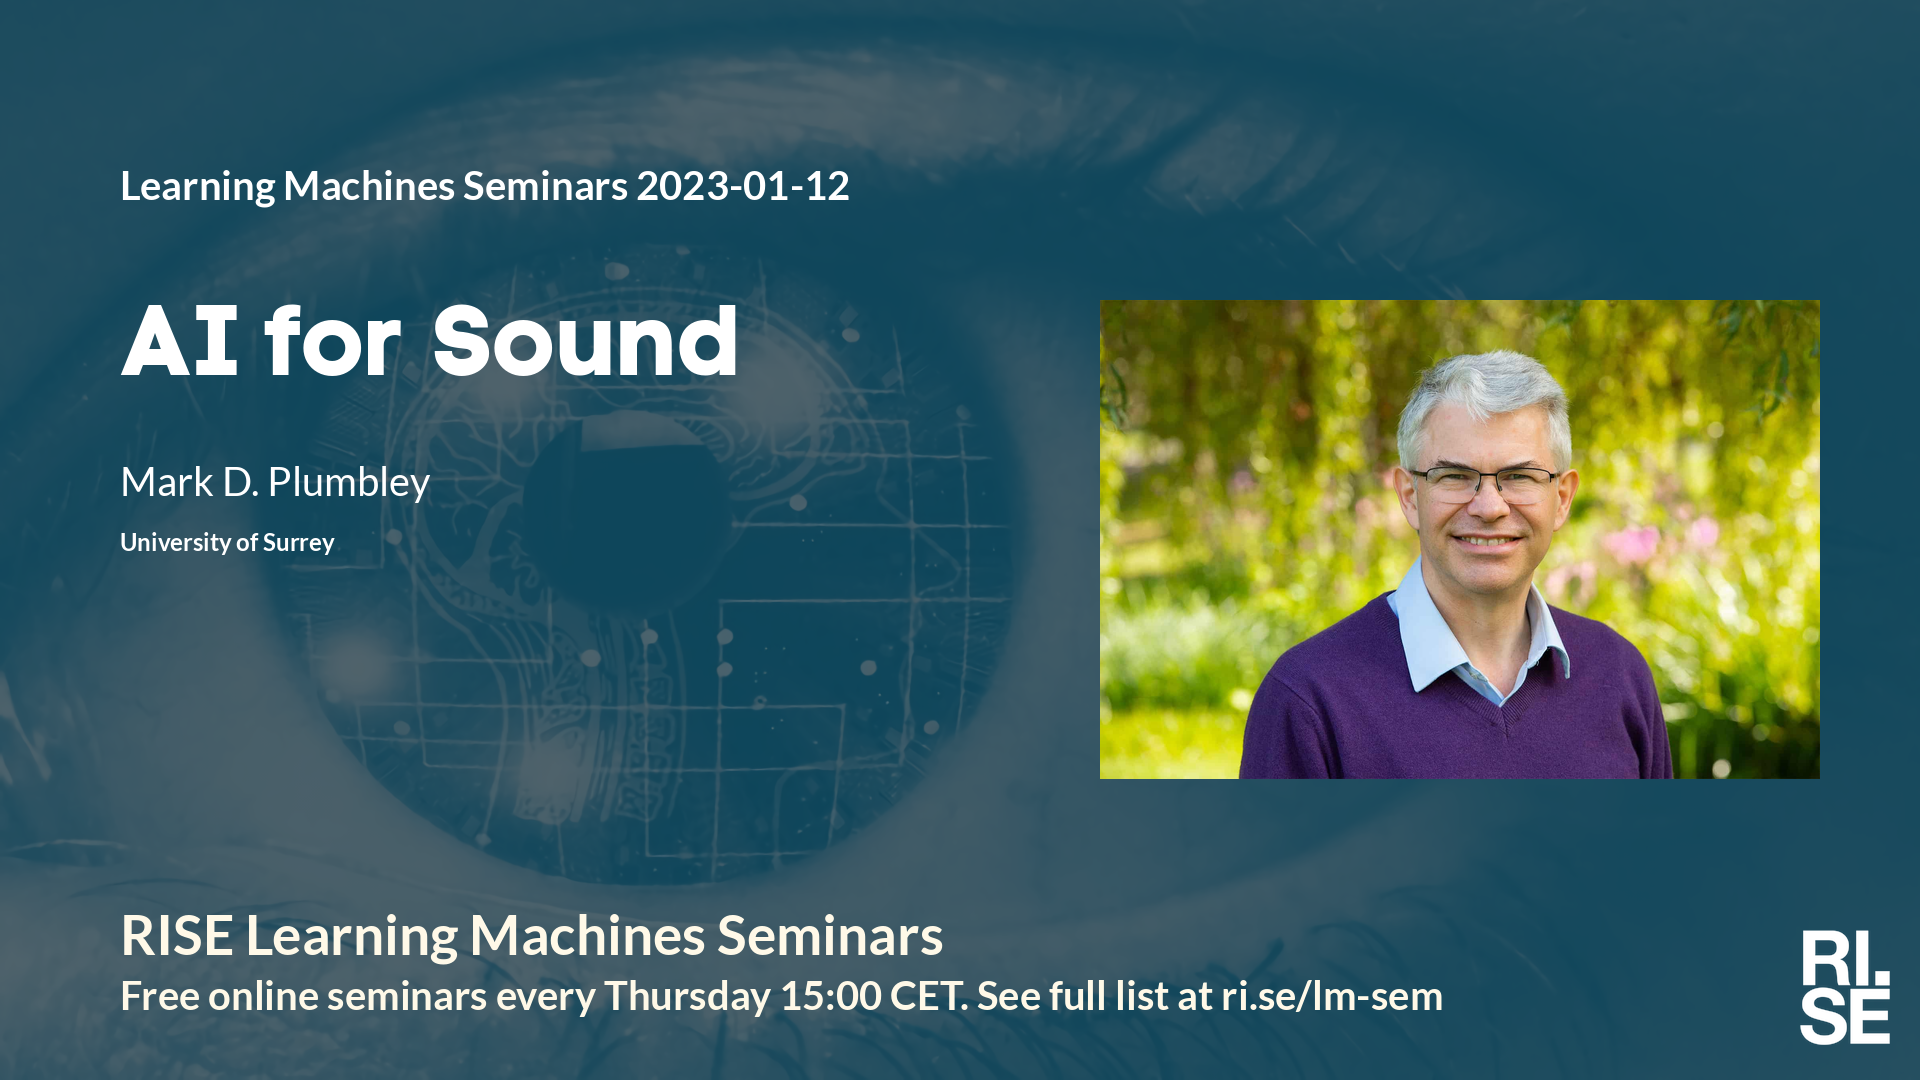
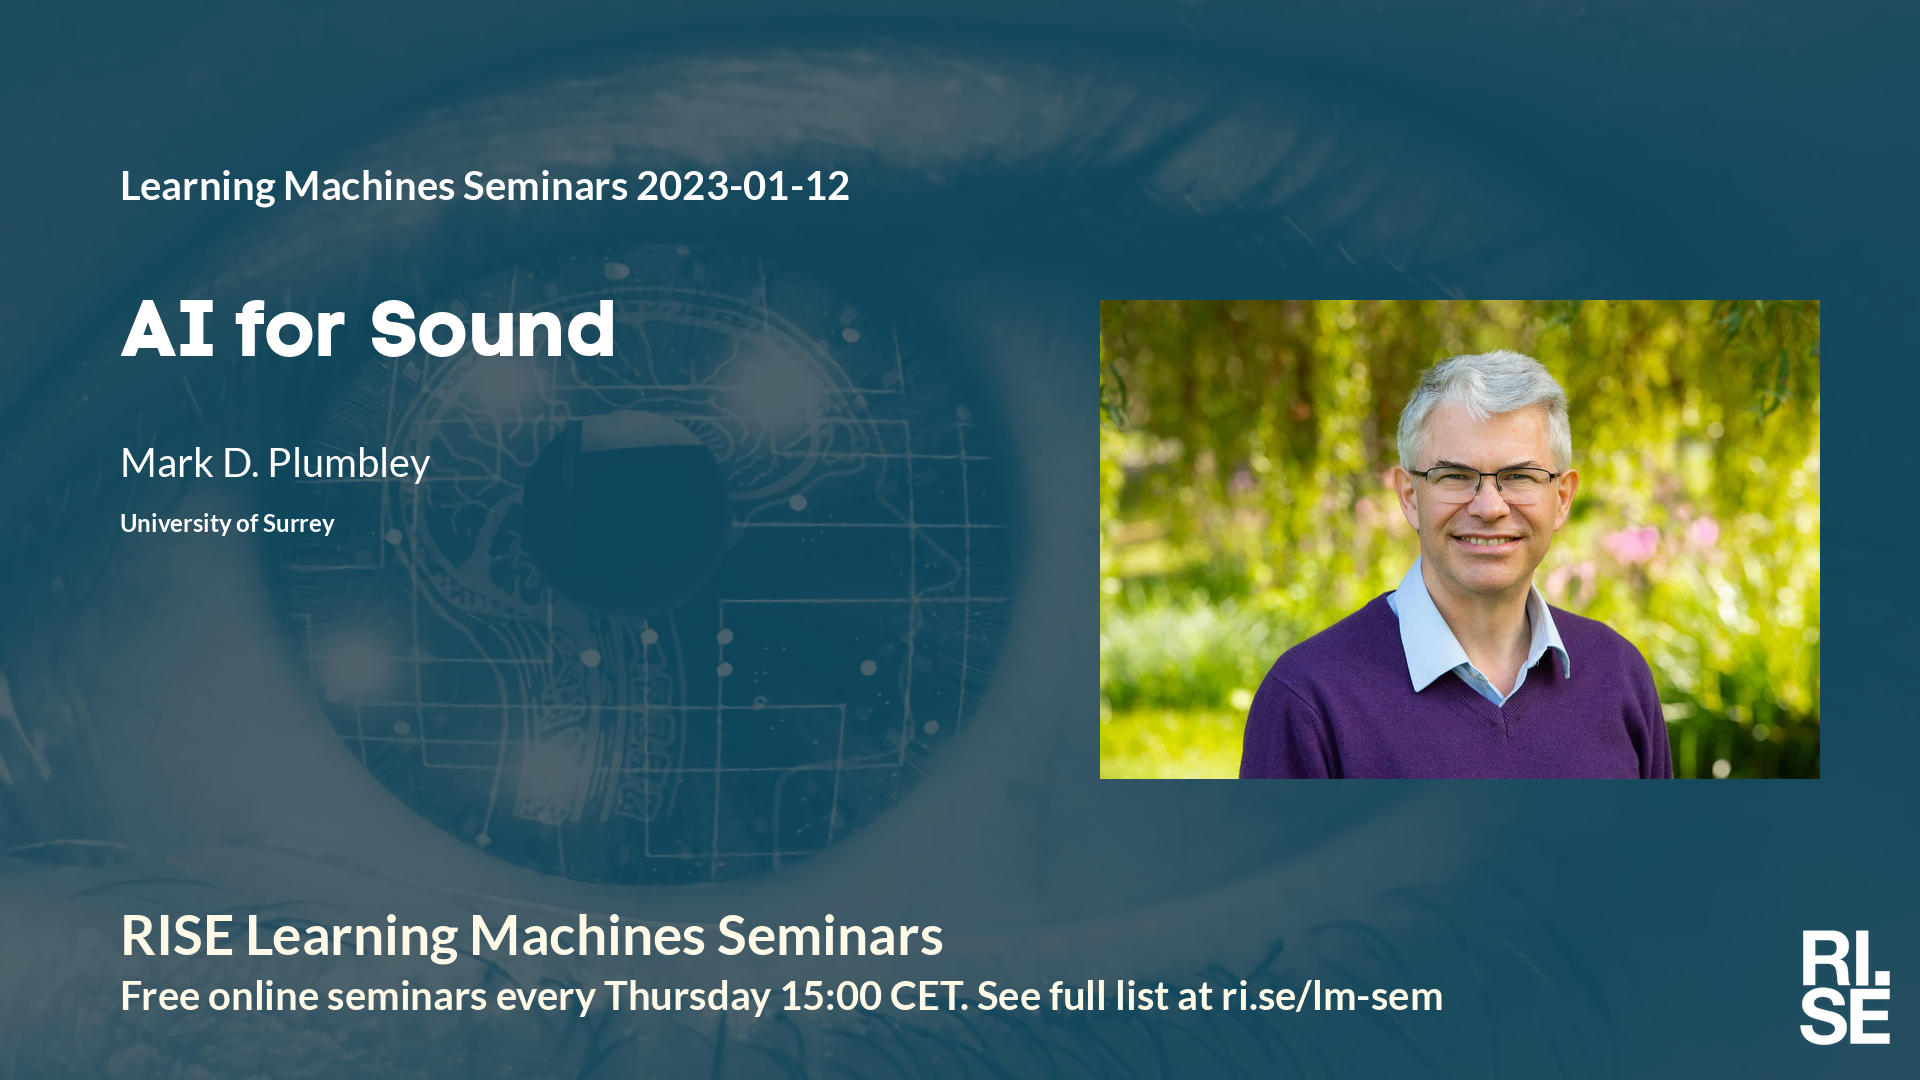
Updated plan on web site.

Changed region(s): [[0.0625, 0.275, 0.4062, 0.3667], [0.0625, 0.3972, 0.2188, 0.5194]]

diff --git a/lm/index.md b/lm/index.md
@@ -17,7 +17,7 @@ table {border-collapse: collapse;}
 | <span style="color:red"> 2022-12-22 </span> | <span style="color:red"> Christmas </span> | <span style="color:red">  </span> | <span style="color:red">  </span> | <span style="color:red">  </span> | <span style="color:red">  </span> | <span style="color:red"> (cancelled) </span> |
 | <span style="color:red"> 2022-12-29 </span> | <span style="color:red"> Christmas </span> | <span style="color:red">  </span> | <span style="color:red">  </span> | <span style="color:red">  </span> | <span style="color:red">  </span> | <span style="color:red"> (cancelled) </span> |
 | <span style="color:red"> 2023-01-05 </span> | <span style="color:red"> Christmas </span> | <span style="color:red">  </span> | <span style="color:red">  </span> | <span style="color:red">  </span> | <span style="color:red">  </span> | <span style="color:red"> (cancelled) </span> |
-|  2023-01-12  |  [Mark D. Plumbley, University of Surrey](2023-01-12.md)  |  [photo](photo-mark-d.-plumbley.jpg)  |  [social media ](social-media-mark-d.-plumbley.png)  |    |  [youtube thumbnail ](youtube-thumbnail-mark-d.-plumbley.png)  |  (confirmed)     |
+|  2023-01-12  |  [Mark D. Plumbley, University of Surrey](2023-01-12.md)  |  [photo](photo-mark-d.-plumbley.jpg)  |  [social media ](social-media-mark-d.-plumbley.png)  |  [meeting backdrop ](meeting-backdrop-mark-d.-plumbley.png)  |  [youtube thumbnail ](youtube-thumbnail-mark-d.-plumbley.png)  |  (confirmed)     |
 |  2023-01-19  |  [Giulia Fanti, Carnegie Mellon University](2023-01-19.md)  |  [photo](photo-giulia-fanti.jpg)  |  [social media ](social-media-giulia-fanti.png)  |  [meeting backdrop ](meeting-backdrop-giulia-fanti.png)  |  [youtube thumbnail ](youtube-thumbnail-giulia-fanti.png)  |  (confirmed)     |
 | <span style="color:purple"> 2023-01-26 </span> | <span style="color:purple"> *Up for grabs!!!* </span> | <span style="color:purple">  </span> | <span style="color:purple">  </span> | <span style="color:purple">  </span> | <span style="color:purple">  </span> | <span style="color:purple"> (not confirmed) </span> |
 | <span style="color:purple"> 2023-02-02 </span> | <span style="color:purple"> *Up for grabs!!!* </span> | <span style="color:purple">  </span> | <span style="color:purple">  </span> | <span style="color:purple">  </span> | <span style="color:purple">  </span> | <span style="color:purple"> (not confirmed) </span> |

diff --git a/lm/2023-01-12.md b/lm/2023-01-12.md
@@ -2,7 +2,7 @@ Welcome to this week's Learning Machines seminar.
 
 **Title:** AI for Sound
 
-**Speaker:** Mark D. Plumbley
+**Speaker:** Mark D. Plumbley, University of Surrey
 
 **Abstract:** Imagine you are standing on a street corner in a city. Close your eyes: what do you hear? Perhaps some cars and busses driving on the road, footsteps of people on the pavement, beeps from a pedestrian crossing, and the hubbub of talking shoppers. You can do the same in a kitchen as someone is making breakfast, or as you are travelling in a vehicle. Now, following the success of AI and machine learning technologies for speech and image recognition, we are beginning to build computer systems to automatically recognize real- world sound scenes and events. In this talk, we will explore some of the work going on in this rapidly expanding research area, and discuss some of the potential applications emerging for sound recognition, from home security and assisted living to environmental noise and sound archives. We will also outline how we are adopting participatory methods, such as a virtual world cafe approach, to direct project outcomes from stakeholders, and so help us realise the potential benefit of sound sensing to society and the economy.
 
@@ -12,6 +12,9 @@ Welcome to this week's Learning Machines seminar.
 
 **Zoom link:** [https://rise.zoom.us/j/208117140](https://rise.zoom.us/j/208117140)
 
+**Upcoming seminars:**
+
+* 2023-01-19: Giulia Fanti, Carnegie Mellon University
 
 More information and coming seminars: [https://ri.se/lm-sem](https://ri.se/lm-sem)
 
